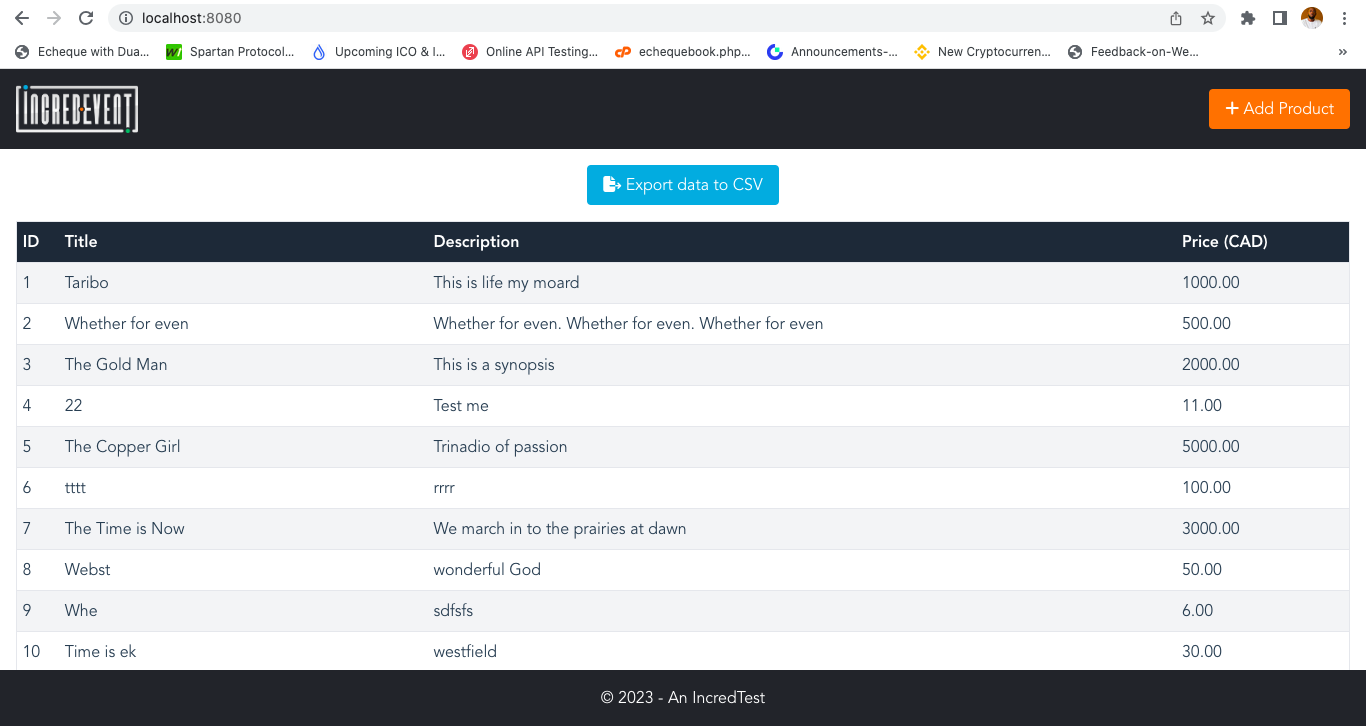
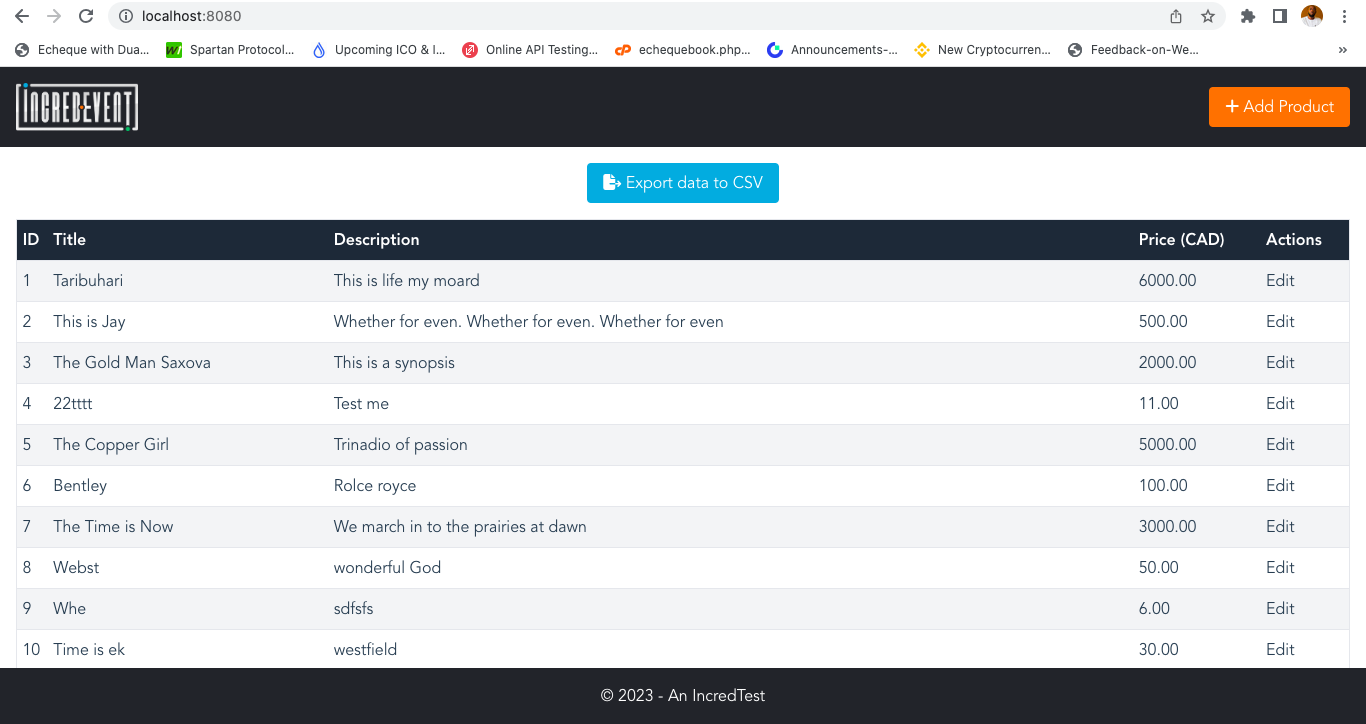
Add files via upload

diff --git a/src/components/ProductList.vue b/src/components/ProductList.vue
@@ -1,6 +1,5 @@
 <template>
   <div id="indicator">CSV created! Uploading to server in 5secs...</div>
-  <ProductForm />
   <ExportButton @click="exportToCSV" />
   <div class="p-4">
     <table class="min-w-full border border-gray-200 text-left">
@@ -10,6 +9,7 @@
           <th class="border-b py-2">Title</th>
           <th class="border-b py-2">Description</th>
           <th class="border-b py-2">Price (CAD)</th>
+          <th class="border-b py-2">Actions</th>
         </tr>
       </thead>
       <tbody>
@@ -19,9 +19,24 @@
           :class="index % 2 === 0 ? 'bg-gray-100' : 'bg-white'"
         >
           <td class="border-b py-2">&nbsp;{{ product.id }}</td>
-          <td class="border-b py-2">{{ product.title }}</td>
-          <td class="border-b py-2">{{ product.description }}</td>
-          <td class="border-b py-2">{{ product.price }}</td>
+          <td class="border-b py-2">
+            <span v-if="!isEditing(index)">{{ product.title }}</span>
+            <input v-else v-model="editedProducts[index].title" />
+          </td>
+          <td class="border-b py-2">
+            <span v-if="!isEditing(index)">{{ product.description }}</span>
+            <input v-else v-model="editedProducts[index].description" />
+          </td>
+          <td class="border-b py-2">
+            <span v-if="!isEditing(index)">{{ product.price }}</span>
+            <input v-else v-model="editedProducts[index].price" />
+          </td>
+          <td class="border-b py-2">
+            <button v-if="!isEditing(index)" @click="editProduct(index)">
+              Edit
+            </button>
+            <button v-else @click="saveProduct(index)">Save</button>
+          </td>
         </tr>
       </tbody>
     </table>
@@ -37,27 +52,44 @@
 
 <script>
 import ExportButton from "./ExportButton.vue";
-import ProductForm from "./ProductForm.vue";
+import axios from "axios";
 
 export default {
   name: "ProductList",
   components: {
     ExportButton,
-    ProductForm,
   },
   data() {
     return {
       products: [], // hold product data for now
-      isFormShowing: true,
+      editedProducts: [],
     };
   },
   // Fetch products data from the API endpoint
   mounted() {
-    fetch("http://localhost:8888/products")
-      .then((response) => response.json())
-      .then((data) => (this.products = data));
+    this.fetchProducts();
   },
   methods: {
+    refreshProducts() {
+      this.fetchProducts()
+        .then(() => {
+          console.log("Products refreshed.");
+        })
+        .catch((error) => {
+          console.error("Error refreshing products:", error);
+        });
+    },
+    fetchProducts() {
+      axios
+        .get("http://localhost:8888/products")
+        .then((response) => {
+          this.products = response.data;
+          this.editedProducts = Array(response.data.length).fill(null);
+        })
+        .catch((error) => {
+          console.error("Error fetching products:", error);
+        });
+    },
     exportToCSV() {
       const showIndicator = document.getElementById("indicator");
       showIndicator.style.display = "block";
@@ -68,22 +100,49 @@ export default {
         product.price,
       ]);
 
-      let csvContent = "data:text/csv;charset=utf-8,";
+      let csvContent = "ID, TITLE, DESCRIPTION, PRICE\n";
       csvContent += rows.map((row) => row.join(",")).join("\n");
 
-      const encodedURI = encodeURI(csvContent);
-
-      //Delay for 5 seconds
       setTimeout(() => {
         showIndicator.style.display = "none";
-        // alert(encodedURI);
-        // Usin WebSocket to send the file to the server
-        const socket = new WebSocket("ws://localhost:8181/socket/socket.php");
+        const socket = new WebSocket("ws://localhost:8181/socket/server.php");
         socket.onopen = () => {
-          socket.send(encodedURI);
+          socket.send(csvContent);
           socket.close();
         };
       }, 5000);
+    },
+    isEditing(index) {
+      return this.editedProducts[index] !== null;
+    },
+    editProduct(index) {
+      this.editedProducts[index] = { ...this.products[index] };
+    },
+    async saveProduct(index) {
+      try {
+        const apiEndpoint = "http://localhost:8888/update/product";
+        const editedProduct = this.editedProducts[index];
+
+        const formData = new FormData();
+        Object.entries(editedProduct).forEach(([key, value]) => {
+          formData.append(key, value);
+        });
+
+        const response = await axios.post(apiEndpoint, formData);
+
+        // Updat the product data in the products array
+        this.products[index] = editedProduct;
+
+        // Reset the editedProduct for this row
+        this.editedProducts[index] = null;
+
+        // Emit an event to notify other components that the product list has been updated
+
+        console.log(response.data.message);
+      } catch (error) {
+        console.error(error);
+        alert("Error saving data. Please try again.");
+      }
     },
   },
 };

diff --git a/src/components/PageHeader.vue b/src/components/PageHeader.vue
@@ -8,15 +8,131 @@
       <i class="fas fa-plus"></i> Add Product
     </button>
   </header>
+
+  <div>
+    <div
+      v-if="isAddProductFormVisible"
+      class="fixed inset-0 flex items-center justify-center z-50"
+    >
+      <div
+        class="bg-gray-900 bg-opacity-50 absolute inset-0"
+        @click="cancelButton"
+      ></div>
+      <div class="bg-white rounded-md max-w-md mx-auto p-6 z-10">
+        <h1 class="text-2xl font-bold mb-6">PRODUCT ENTRY</h1>
+        <form @submit.prevent="submitForm">
+          <div class="mb-4 text-left">
+            <label for="title" class="text-gray-800"
+              >Title <span class="text-red-500">*</span></label
+            >
+            <input
+              v-model="product.title"
+              type="text"
+              id="title"
+              placeholder="Title"
+              required
+              class="w-full px-3 py-2 border rounded-md"
+            />
+          </div>
+          <div class="mb-4 text-left">
+            <label for="description" class="text-gray-800"
+              >Description <span class="text-red-500">*</span></label
+            >
+            <textarea
+              v-model="product.description"
+              id="description"
+              placeholder="Description"
+              class="w-full px-3 py-2 border rounded-md"
+            ></textarea>
+          </div>
+          <div class="mb-4 text-left">
+            <label for="price" class="text-gray-800"
+              >Price (CAD) <span class="text-red-500">*</span></label
+            >
+            <input
+              id="price"
+              placeholder="Price"
+              type="text"
+              v-model="product.price"
+              @input="formatMoneyInput"
+              required
+              class="w-full px-3 py-2 border rounded-md"
+            />
+          </div>
+          <div class="flex justify-end">
+            <button
+              type="submit"
+              class="px-4 py-2 text-white bg-blue-500 rounded-md mr-2"
+            >
+              {{ action === "create" ? "Submit" : "Update" }}
+            </button>
+            <button
+              type="button"
+              class="px-4 py-2 text-white bg-gray-500 rounded-md"
+              @click="cancelButton"
+            >
+              Cancel
+            </button>
+          </div>
+        </form>
+      </div>
+    </div>
+  </div>
 </template>
 
 <script>
+import axios from "axios";
+
 export default {
-  name: "PageHeader",
+  name: "ProductForm",
+  data() {
+    return {
+      product: {
+        title: "",
+        description: "",
+        price: null,
+      },
+      action: "create",
+      amount: "",
+      isAddProductFormVisible: false,
+    };
+  },
   methods: {
     showAddProductForm() {
-      const showDiv = document.getElementById("showDiv");
-      showDiv.style.display = "block";
+      this.isAddProductFormVisible = true;
+    },
+    async submitForm() {
+      try {
+        const apiEndpoint = "http://localhost:8888/add/product";
+        const { title, description, price } = this.product;
+
+        const formData = new FormData();
+        formData.append("title", title);
+        formData.append("description", description);
+        formData.append("price", price);
+
+        const response = await axios.post(apiEndpoint, formData);
+        alert(JSON.stringify(response.data));
+
+        // Clear the input fields
+        this.product.title = "";
+        this.product.description = "";
+        this.product.price = null;
+
+        this.isAddProductFormVisible = false;
+      } catch (error) {
+        console.error(error);
+        alert("Error submitting form. Please try again.");
+      }
+    },
+    cancelButton() {
+      this.isAddProductFormVisible = false;
+    },
+    formatMoneyInput(event) {
+      let value = event.target.value.replace(/\D/g, "");
+      value = (value / 100).toFixed(2);
+      value = value.replace(/\B(?=(\d{3})+(?!\d))/g, ",");
+      this.product.price = value;
     },
   },
 };

diff --git a/README.md b/README.md
@@ -1,4 +1,4 @@
-# incredtest
+# incredivent
 
 ## Project setup
 ```
@@ -22,11 +22,3 @@ npm run lint
 
 ### Customize configuration
 See [Configuration Reference](https://cli.vuejs.org/config/).
-
-### Find the following:
-1. API to add and list products in 'api' folder
-2. Web socket in 'socket' folder
-3. Database and table definition in database.sql
-4. Uploaded CSV can be found inside "socket/saved" folder
-
-## Thank you for the honours
